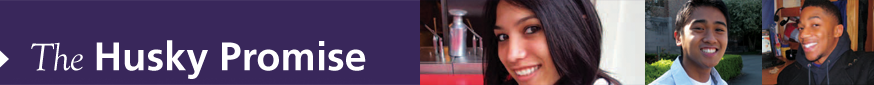
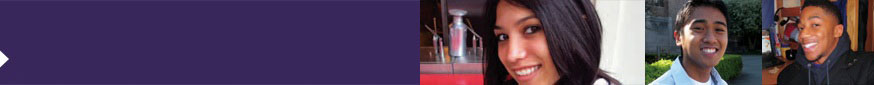
custom title and blog description

diff --git a/css/twentyeleven.css b/css/twentyeleven.css
@@ -347,16 +347,6 @@ a:hover {
 /* =Header
 ----------------------------------------------- */
 
-#branding {
-	border-top: 2px solid #bbb;
-	padding-bottom: 10px;
-	position: relative;
-	z-index: 2;
-}
-#site-title {
-	margin-right: 270px;
-	padding: 3.65625em 0 0;
-}
 #site-title a {
 	color: #111;
 	font-size: 30px;
@@ -374,11 +364,6 @@ a:hover {
 	font-size: 14px;
 	margin: 0 270px 3.65625em 0;
 }
-#branding img {
-	height: auto;
-	margin-bottom: -7px;
-	width: 100%;
-}
 
 
 /* =Menu
@@ -394,7 +379,7 @@ a:hover {
 	-moz-box-shadow: rgba(0, 0, 0, 0.4) 0px 1px 2px;
 	box-shadow: rgba(0, 0, 0, 0.4) 0px 1px 2px;
 	clear: both;
-	display: block;
+	display: none;
 	float: left;
 	margin: 0 auto 6px;
 	width: 100%;
@@ -862,7 +847,7 @@ a:active img[class*="wp-image-"],
 	overflow: hidden;
 	padding: 0 0 0;
 	position: absolute;
-	top: 1.5em;
+	top: 1em;
 	right: 0;
 	text-align: center;
 	text-decoration: none;
@@ -1725,7 +1710,7 @@ section.ephemera .entry-title a span {
 }
 .commentlist {
 	list-style: none;
-	margin: 0 auto;
+	margin: 0 0 0 105px;
 	width: 68.9%;
 }
 .content .commentlist,

diff --git a/style.css b/style.css
@@ -19,7 +19,8 @@ h1 a, h1, .entry-title, .entry-title a {
     text-decoration: none;
 }
 .container {
-  width: 950px
+  width: 950px;
+  position: relative;
 }
 #leftNav h2, #rightInfo h2 {
 	font-size: 14px;
@@ -177,11 +178,32 @@ p.authoring {
 .banner {
 	padding: 25px 0 15px 38px;
 }
-.title {
-	display: none;
+#site-title {	
+    display: block;
+    left: 70px;
+    position: absolute;
+    top: 55px;
+    z-index: 1;
+}
+#site-title a {
+    color: #fff;
+    font-size: 32px;
+    font-weight: normal;
+    line-height: 36px;
+    text-decoration: none;
+    font-family: "Helvetica Neue",Arial,Helvetica,"Nimbus Sans L",sans-serif;
+    font-weight: bold;
 }
 .banner {
 	padding:25px 0 15px 38px;
+}
+#site-description {
+    margin: 0;
+    position: absolute;
+    top: 80px;
+    z-index: 1;
+    color: #FFFFFF;
+    font-weight: normal;
 }
 /************************************************
 *	Comments									*

diff --git a/js/site.js b/js/site.js
@@ -10,6 +10,7 @@ jQuery(document).ready(function($){
         $.get(this.href, function(data){
           $('body').removeClass('getting-page');
           $data = $(data);
+          $data.find('#commentform').addClass('form-stacked'); // [todo] see below
           $('#primary').fadeOut(200, function() {
             $(this).replaceWith($data.find('#primary').hide().fadeIn(200))
           })
@@ -117,5 +118,7 @@ jQuery(document).ready(function($){
 /* ---- Weather widget ----- */
   $('#weather').weather();
 
+/* ---- Comment form [TODO] will change when WP gives the option to do so with php ---- */
+  $('#commentform').addClass('form-stacked');
 
 });

diff --git a/banner.php b/banner.php
@@ -1,6 +1,9 @@
-<div class="title">
-    <h2><?php bloginfo('name'); ?></h2>
-</div>
+<header id="branding" class="title" role="banner">
+    <hgroup>
+      <h1 id="site-title"><span><a href="<?php echo esc_url( home_url( '/' ) ); ?>" title="<?php echo esc_attr( get_bloginfo( 'name', 'display' ) ); ?>" rel="home"><?php bloginfo( 'name' ); ?></a></span></h1>
+      <h2 id="site-description"><?php bloginfo( 'description' ); ?></h2>
+    </hgroup>
+
 
   <?php
     // Check to see if the header image has been removed
@@ -24,4 +27,13 @@
       <?php endif; ?>
 
   </a>
-<?php endif; ?>
+  <?php endif; ?>
+
+			<nav id="access" role="navigation">
+				<h3 class="assistive-text"><?php _e( 'Main menu', 'twentyeleven' ); ?></h3>
+				<?php /*  Allow screen readers / text browsers to skip the navigation menu and get right to the good stuff. */ ?>
+				<div class="skip-link"><a class="assistive-text" href="#content" title="<?php esc_attr_e( 'Skip to primary content', 'twentyeleven' ); ?>"><?php _e( 'Skip to primary content', 'twentyeleven' ); ?></a></div>
+				<div class="skip-link"><a class="assistive-text" href="#secondary" title="<?php esc_attr_e( 'Skip to secondary content', 'twentyeleven' ); ?>"><?php _e( 'Skip to secondary content', 'twentyeleven' ); ?></a></div>
+			</nav><!-- #access -->
+</header><!-- #branding -->
+    

diff --git a/functions.php b/functions.php
@@ -78,7 +78,7 @@ function uwtheme_setup() {
 	// The next four constants set how UW Theme supports custom headers.
 
 	// The default header text color
-	define( 'HEADER_TEXTCOLOR', '000' );
+	define( 'HEADER_TEXTCOLOR', 'FFF' );
 
 	// By leaving empty, we allow for random image rotation.
 	define( 'HEADER_IMAGE', '' );
@@ -174,6 +174,7 @@ function uwtheme_admin_header_style() {
 	<style type="text/css">
 	.appearance_page_custom-header #headimg {
 		border: none;
+    position: relative;
 	}
 	#headimg h1,
 	#desc {
@@ -181,6 +182,9 @@ function uwtheme_admin_header_style() {
 	}
 	#headimg h1 {
 		margin: 0;
+    left: 21px;
+    position: absolute;
+    top: 10px;
 	}
 	#headimg h1 a {
 		font-size: 32px;
@@ -188,9 +192,12 @@ function uwtheme_admin_header_style() {
 		text-decoration: none;
 	}
 	#desc {
-		font-size: 14px;
 		line-height: 23px;
-		padding: 0 0 3em;
+    font-size: 13px;
+    left: 20px;
+    padding: 0;
+    position: absolute;
+    top: 39px;
 	}
 	<?php
 		// If the user has set a custom color for the text use that
@@ -206,6 +213,12 @@ function uwtheme_admin_header_style() {
 		height: auto;
 		width: 100%;
 	}
+  #headimg img {
+    left: 0;
+    top: 0;
+    width: 100%;
+  }
+
 	</style>
 <?php
 }
